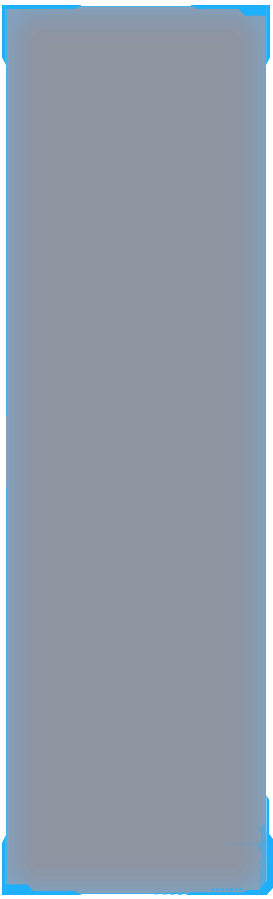
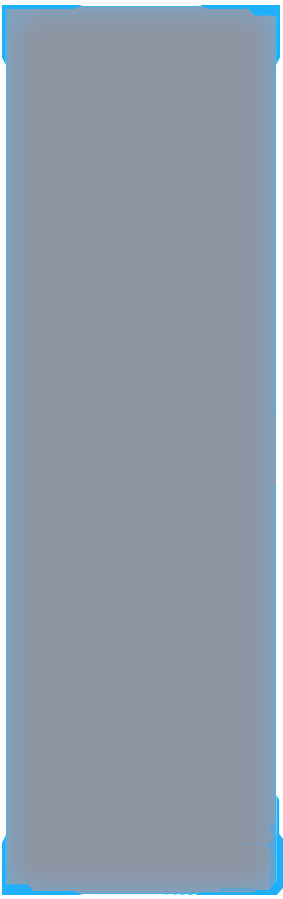
样式调整

Changed region(s): [[0.967, 0.0, 0.9963, 0.9032], [0.0, 0.0934, 0.0293, 0.9344]]

diff --git a/src/views/videoSystem/realVideo.vue b/src/views/videoSystem/realVideo.vue
@@ -6,6 +6,7 @@
       @hideLeftNav="closeLeftNav"
       @hideRightInfo="closeRightInfo"
     >
+      <!-- 左侧部分 -->
       <div slot="left">
         <div class="leftContainer">
           <div class="tab">
@@ -48,9 +49,14 @@
               </div>
             </div>
           </template>
+          <template v-if="index==1">
+            <el-tree :data="data" :props="defaultProps" @node-click="handleNodeClick"></el-tree>
+          </template>
         </div>
       </div>
+      <!-- 中间部分 -->
       <div slot="center">中</div>
+      <!-- 右侧部分 -->
       <div slot="right">
         <div class="rightInfo">
           <div class="baseInfo">
@@ -173,7 +179,47 @@ export default {
         }
       ],
       input: '', // 设备名称
-      value2: 4 // 步速值
+      value2: 4, // 步速值
+      data: [
+        {
+          label: '一级 1',
+          children: [
+            {
+              label: '二级 1-1',
+              children: [
+                {
+                  label: '三级 1-1-1'
+                }
+              ]
+            }
+          ]
+        },
+        {
+          label: '一级 2',
+          children: [
+            {
+              label: '二级 2-1',
+              children: [
+                {
+                  label: '三级 2-1-1'
+                }
+              ]
+            },
+            {
+              label: '二级 2-2',
+              children: [
+                {
+                  label: '三级 2-2-1'
+                }
+              ]
+            }
+          ]
+        }
+      ],
+      defaultProps: {
+        children: 'children',
+        label: 'label'
+      }
     }
   },
   methods: {
@@ -193,6 +239,10 @@ export default {
         this.listArray[index].infraredIsclick = true
       }
       this.listArray[index].isSelected = true
+    },
+    // 点击数节点
+    handleNodeClick (data) {
+      console.log(data)
     }
   }
 }

diff --git a/src/views/videoSystem/components/main.vue b/src/views/videoSystem/components/main.vue
@@ -69,7 +69,7 @@ export default {
   .leftNav .iconRight {
     left: 100%;
     background: url(../../../assets/images/arrow-right.png) no-repeat;
-    margin-left:-20px;
+    margin-left:-9px;
   }
   .leftNav .iconLeft {
     background: url(../../../assets/images/arrow-left.png) no-repeat;
